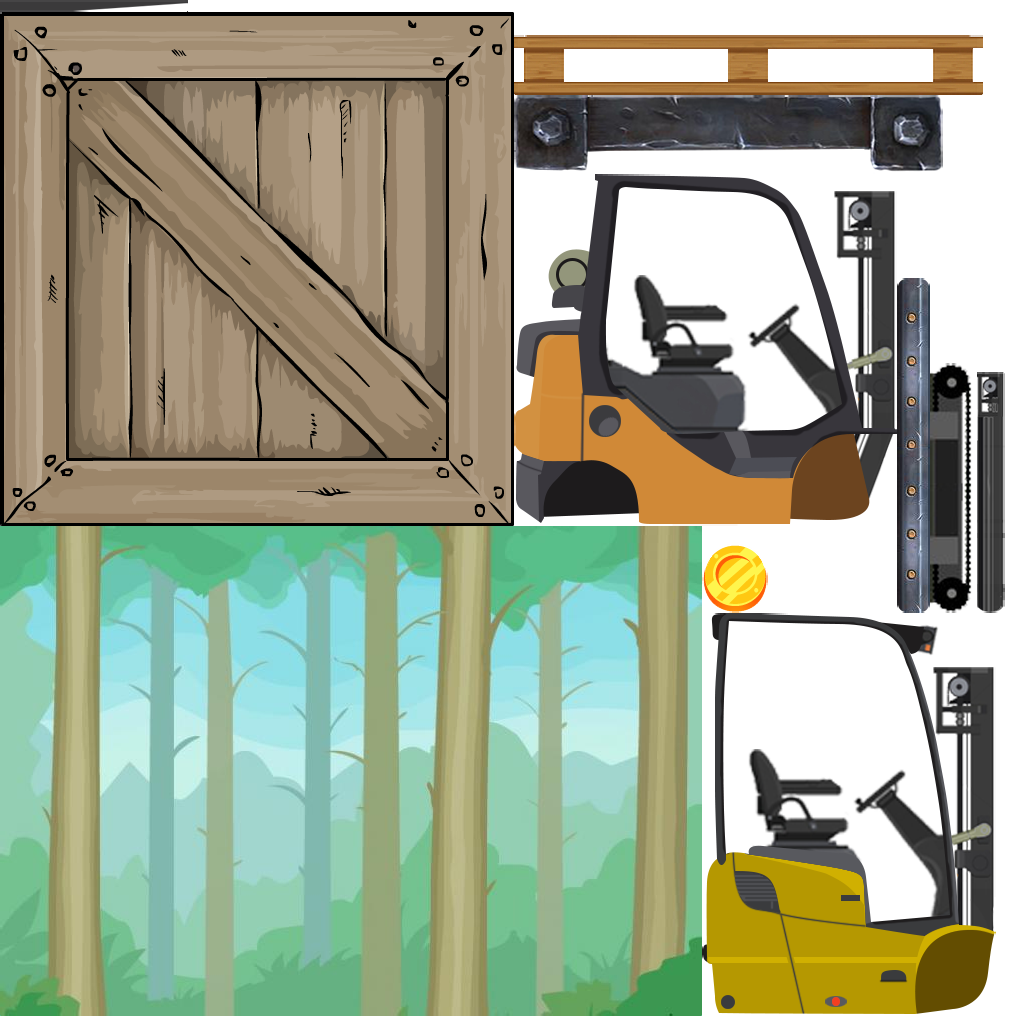
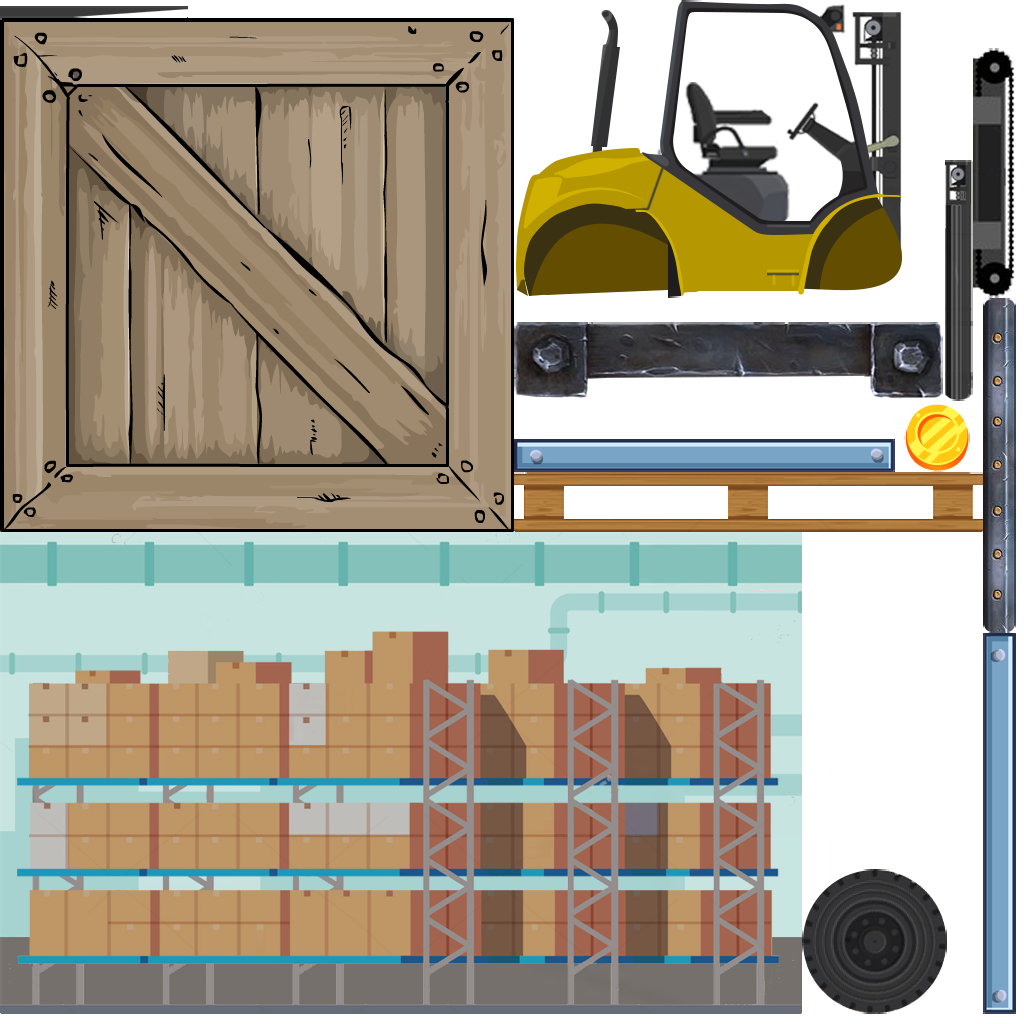
Map bug fix

diff --git a/android/assets/mapAssets/TilesFull.tsx b/android/assets/mapAssets/TilesFull.tsx
@@ -1,0 +1,4 @@
+<?xml version="1.0" encoding="UTF-8"?>
+<tileset version="1.2" tiledversion="1.2.5" name="TilesFull" tilewidth="32" tileheight="32" tilecount="100" columns="10">
+ <image source="TilesFull.png" width="320" height="320"/>
+</tileset>

diff --git a/core/src/com/mygdx/forkliftaone/entity/BackgroundBase.java b/core/src/com/mygdx/forkliftaone/entity/BackgroundBase.java
@@ -12,16 +12,19 @@ import com.badlogic.gdx.utils.viewport.Viewport;
 
 public class BackgroundBase extends Actor {
 
-    private TextureRegion backgroundTexture, middleTexture;
+    private TextureRegion backgroundTexture, middleTexture, background;
     private ForkliftActorBase forklift;
     private Vector2 backTexturePosition, middleTexturePosition, frontTexturePosition;
     private Viewport viewport;
+    private Camera camera;
 
-    public BackgroundBase(TextureRegion backgroundTexture, TextureRegion middleTexture, Viewport viewport, ForkliftActorBase forklift, Camera camera) {
-        this.backgroundTexture = backgroundTexture;
-        this.middleTexture = middleTexture;
+    public BackgroundBase(TextureRegion background, TextureRegion layerOne, TextureRegion layerTwo, Viewport viewport, ForkliftActorBase forklift, Camera camera) {
+        this.backgroundTexture = layerOne;
+        this.middleTexture = layerTwo;
+        this.background = background;
         this.forklift = forklift;
         this.viewport = viewport;
+        this.camera = camera;
 
 //        texturePosition = new Vector2(camera.position.x - getStage().getViewport().getWorldWidth()/2f,
 //                getStage().getCamera().position.y - getStage().getViewport().getWorldHeight()/2f);
@@ -39,6 +42,11 @@ public class BackgroundBase extends Actor {
             System.out.println("Region not set on Actor " + getClass().getName());
             return;
         } else {
+
+            batch.draw(background, camera.position.x - getStage().getViewport().getWorldWidth()/2f, camera.position.y - getStage().getViewport().getWorldHeight()/2f,
+                    getStage().getCamera().viewportWidth, getStage().getCamera().viewportHeight);
+
+
             batch.draw(backgroundTexture, backTexturePosition.x,
                         backTexturePosition.y = getStage().getCamera().position.y - getStage().getViewport().getWorldHeight()/2f,
                         getStage().getCamera().viewportWidth, getStage().getCamera().viewportHeight);
@@ -47,12 +55,20 @@ public class BackgroundBase extends Actor {
                         backTexturePosition.y = getStage().getCamera().position.y - getStage().getViewport().getWorldHeight()/2f,
                         getStage().getCamera().viewportWidth, getStage().getCamera().viewportHeight);
 
+//            batch.draw(middleTexture, middleTexturePosition.x,
+//                    middleTexturePosition.y = getStage().getCamera().position.y - getStage().getViewport().getWorldHeight()/2f - 3f,
+//                    getStage().getCamera().viewportWidth, getStage().getCamera().viewportHeight);
+//
+//            batch.draw(middleTexture, middleTexturePosition.x + viewport.getWorldWidth(),
+//                    middleTexturePosition.y = getStage().getCamera().position.y - getStage().getViewport().getWorldHeight()/2f - 3f,
+//                    getStage().getCamera().viewportWidth, getStage().getCamera().viewportHeight);
+
             batch.draw(middleTexture, middleTexturePosition.x,
-                    middleTexturePosition.y = getStage().getCamera().position.y - getStage().getViewport().getWorldHeight()/2f - 3f,
+                    middleTexturePosition.y = getStage().getCamera().position.y - getStage().getViewport().getWorldHeight()/2f,
                     getStage().getCamera().viewportWidth, getStage().getCamera().viewportHeight);
 
             batch.draw(middleTexture, middleTexturePosition.x + viewport.getWorldWidth(),
-                    middleTexturePosition.y = getStage().getCamera().position.y - getStage().getViewport().getWorldHeight()/2f - 3f,
+                    middleTexturePosition.y = getStage().getCamera().position.y - getStage().getViewport().getWorldHeight()/2f,
                     getStage().getCamera().viewportWidth, getStage().getCamera().viewportHeight);
 
         }

diff --git a/core/src/com/mygdx/forkliftaone/maps/TestMap.java b/core/src/com/mygdx/forkliftaone/maps/TestMap.java
@@ -27,9 +27,9 @@ public class TestMap extends MapBase {
     private Stage stage;
 
     private PrismaticJoint prismaticJoint, elevatorJoint;
-    private float elevatorTimer, blinkingTimer, elevatorWidth = 3.2f, elevatorHeight = 0.16f;
+    private float elevatorTimer, blinkingTimer, elevatorWidth = 3.2f, elevatorHeight = 0.16f, doorWidth = 0.1f, doorHeight = 1f;
 
-    private Body elevatorMain;
+    private Body elevatorMain, door;
 
 
     public TestMap(World world, TextureRegion backTexture, TextureRegion middleTexture, Camera camera, Stage stage, TextureAtlas atlas) {
@@ -43,8 +43,8 @@ public class TestMap extends MapBase {
         this.stage = stage;
         factory = new BoxFactory();
 
-        this.backTexture = backTexture;
-        this.middleTexture = middleTexture;
+        this.backTexture = atlas.findRegion(RegionNames.LAYER_ONE);
+        this.middleTexture = atlas.findRegion(RegionNames.LAYER_TWO);
 
         boxCoords = new Vector2[3];
         boxCoords[0] = new Vector2(15.04f, 15.20f); // Go up = y + 1.28 Go right = x + 4.80
@@ -52,7 +52,7 @@ public class TestMap extends MapBase {
         boxCoords[2] = new Vector2(8.96f, 3.52f);
 
         createObstacles(8f, 4f, 0.1f, 1f,
-                8f, 4f, 0.1f, 1f,
+                8f, 4f, doorWidth, doorHeight,
                 4.16f, 11.68f, elevatorWidth, elevatorHeight);
 
     }
@@ -92,7 +92,7 @@ public class TestMap extends MapBase {
         doorDef.fixedRotation = true;
         doorDef.position.set(doorX, doorY);
 
-        Body door = world.createBody(doorDef);
+        door = world.createBody(doorDef);
 
         shape = new PolygonShape();
         shape.setAsBox(doorWidth, doorHeight);
@@ -233,8 +233,16 @@ public class TestMap extends MapBase {
                     1f, 1f, //scaling
                     0); // Rotation (radiants to degrees)
 
+        batch.draw(atlas.findRegion(RegionNames.DOOR), // Texture
+                door.getPosition().x - doorWidth , door.getPosition().y - doorHeight, // Texture position
+                getOriginX(), getOriginY(), // Rotation point (width / 2, height /2 = center)
+                doorWidth * 2f, doorHeight * 2f, // Width and height of the texture
+                1f, 1f, //scaling
+                0); // Rotation (radiants to degrees)
+
 //        batch.end();
     }
+
 
 
 }

diff --git a/core/src/com/mygdx/forkliftaone/utils/RegionNames.java b/core/src/com/mygdx/forkliftaone/utils/RegionNames.java
@@ -14,14 +14,18 @@ public class RegionNames {
 
     public static final String TRUCK_ONE = "SmallTruck";
 
-    public static final String DOOR = "door";
-    public static final String ELEVATOR = "elevator";
+    //    public static final String DOOR = "door";
+//    public static final String ELEVATOR = "elevator";
+    public static final String DOOR = "doorTwo";
+    public static final String LAYER_ONE = "layerTwoSecond";
+    public static final String LAYER_TWO = "layerOneSecond";
+    public static final String ELEVATOR = "elevatorTwo";
     public static final String FORKLIFT_WHEEL = "wheeltexture";
     //    public static final String FORK_TEXTURE = "tubeytexture";
     public static final String TUBE_TEXTURE = "tube";
     public static final String FORK_TEXTURE = "fork";
     public static final String PALLETE = "pallete";
-    public static final String TEST_BACKGROUND = "57bf2fe698ab4156c2d31ce1";
+    public static final String TEST_BACKGROUND = "background";
     public static final String BOX_TEXTURE = "box";
     public static final String COIN_TEXTURE = "coin";
 }

diff --git a/core/src/com/mygdx/forkliftaone/screens/game/GameScreen.java b/core/src/com/mygdx/forkliftaone/screens/game/GameScreen.java
@@ -202,7 +202,7 @@ ProcessInventoryImproved pi = new ProcessInventoryImproved();
         tmr = new OrthogonalTiledMapRenderer(map.getTiledMap(), 1 / GameConfig.SCALE);
 
         // Parallax background
-        BackgroundBase backBase = new BackgroundBase(map.getBackTexture(), map.getMiddleTexture(), viewport, forklift, camera);
+        BackgroundBase backBase = new BackgroundBase(gamePlayAtlas.findRegion(RegionNames.TEST_BACKGROUND), map.getBackTexture(), map.getMiddleTexture(), viewport, forklift, camera);
 
         // The order determines the drawing consequence
         stage.addActor(backBase);
